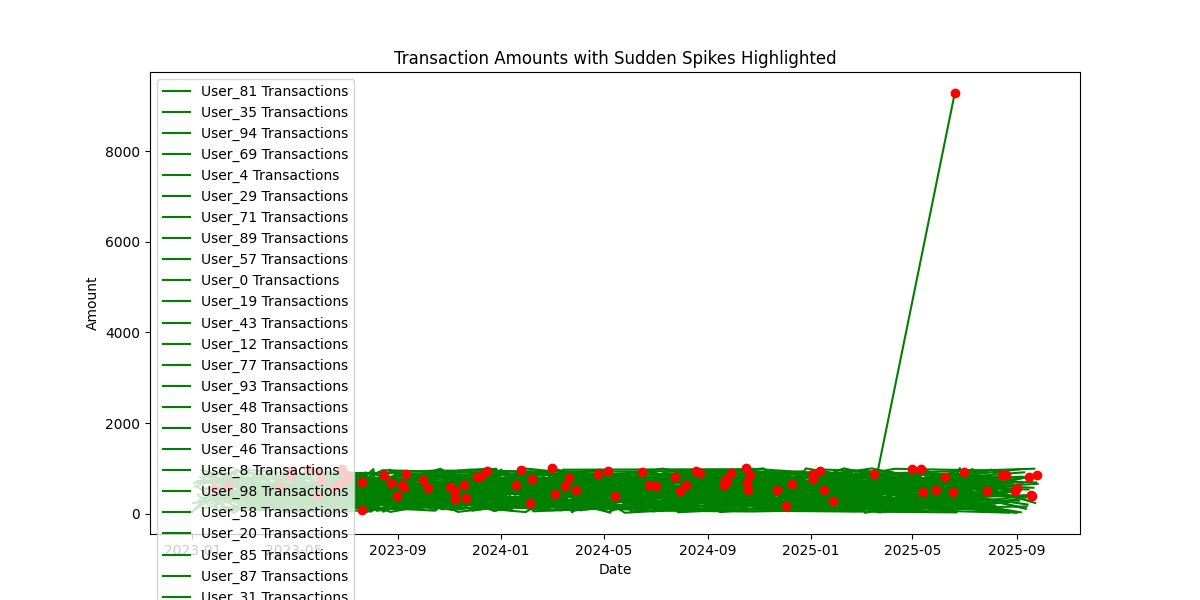
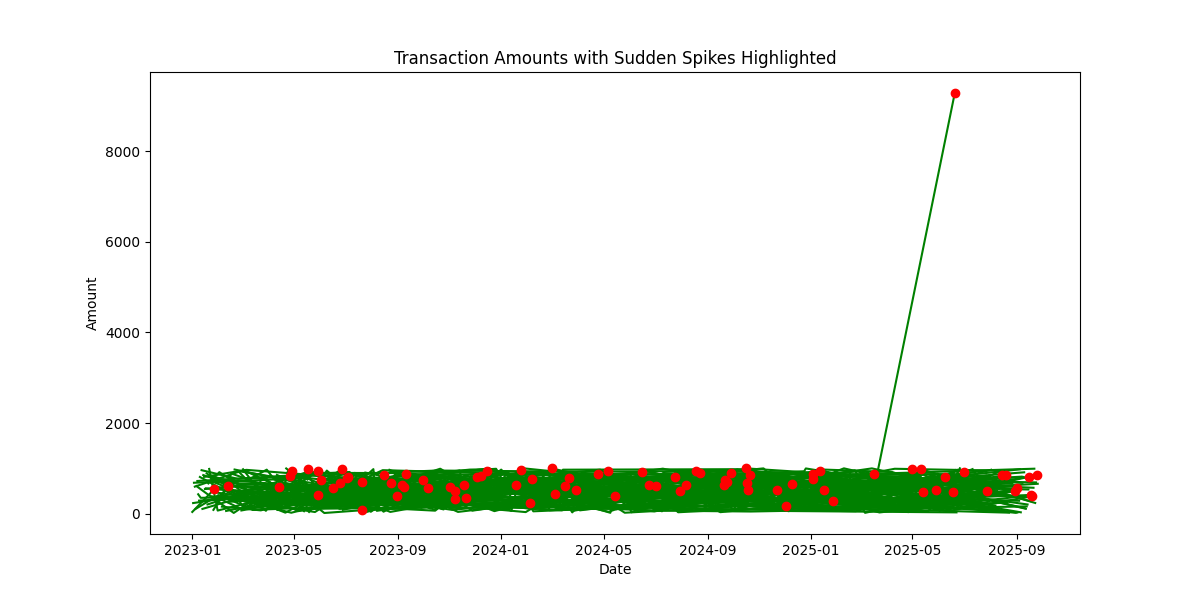
Update Sudden Spikes

Changed region(s): [[0.1233, 0.12, 0.3083, 1.0]]

diff --git a/templates/transaction.html b/templates/transaction.html
@@ -4,9 +4,17 @@
     <meta charset="UTF-8">
     <meta name="viewport" content="width=device-width, initial-scale=1.0">
     <title>Transaction Spikes</title>
+    <link rel="stylesheet" href="./static/styles.css">
 </head>
 <body>
-    <h1>Transaction Amounts with Sudden Spikes Highlighted</h1>
-    <img src="{{ url_for('static', filename='transaction_spikes.png') }}" alt="Transaction Spikes">
+    <div class = "circular-transactions-page-heading">
+        <h1>Sudden Spikes</h1>
+    </div>
+    <div class = "graph-container">       
+        <img class = "graph" src="{{ url_for('static', filename='transaction_spikes.png') }}" alt="Transaction Spikes">             
+    </div>  
+    <p><a href="/">
+        <img class = "home" src = "./static/images/home.svg"/>
+    </a></p>
 </body>
 </html>

diff --git a/static/styles.css b/static/styles.css
@@ -355,6 +355,7 @@ body {
 .circular-transactions-page-heading h1{
     padding: 60px;
     color: white;
+    text-align: center;
 }
 
 
@@ -371,3 +372,21 @@ body {
     color: white; /* Optional: Add text color if there's text inside */
     font-size: 16px; /* Adjust as needed */
 }
+
+.graph-container{
+    display: flex;
+    justify-content: center;
+    align-items: center;
+    margin-top: 100px;
+    gap: 100px;
+    text-align: center;
+    border-radius: 20px;
+    width: 100%;
+    height: 50vh;
+    padding-top: 30px; 
+}
+
+.graph{
+    border-radius: 20px;
+}
+

diff --git a/application.py b/application.py
@@ -90,7 +90,6 @@ def plot_sudden_spikes(df):
     plt.xlabel('Date')
     plt.ylabel('Amount')
     plt.title('Transaction Amounts with Sudden Spikes Highlighted')
-    # plt.legend()
 
     # Save plot to a file
     plt.savefig('static/transaction_spikes.png')
@@ -109,6 +108,7 @@ def circular():
 
 @application.route('/spikes')
 def spikes():
+    plot_sudden_spikes(df)
     return render_template('transaction.html')
 
 @application.route("/models")
